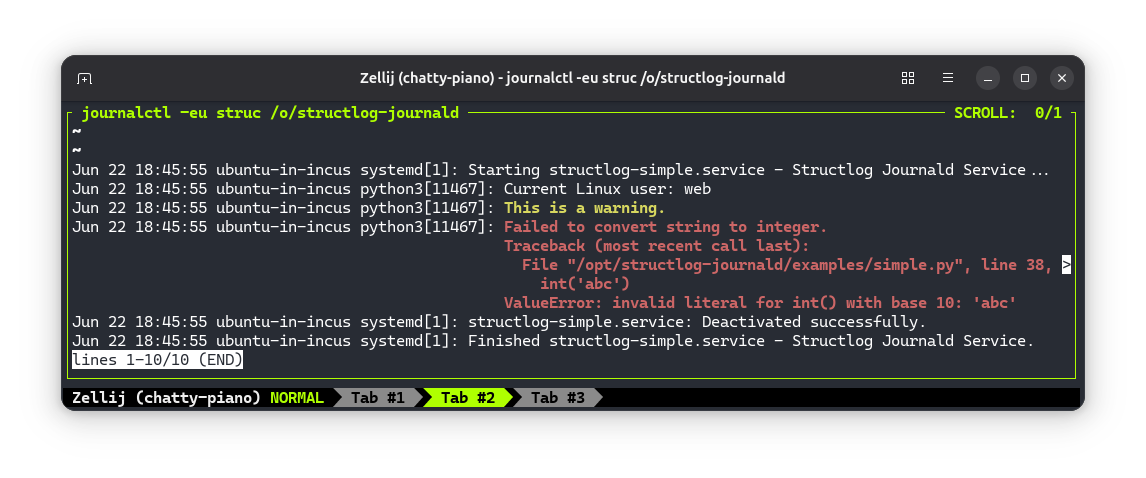
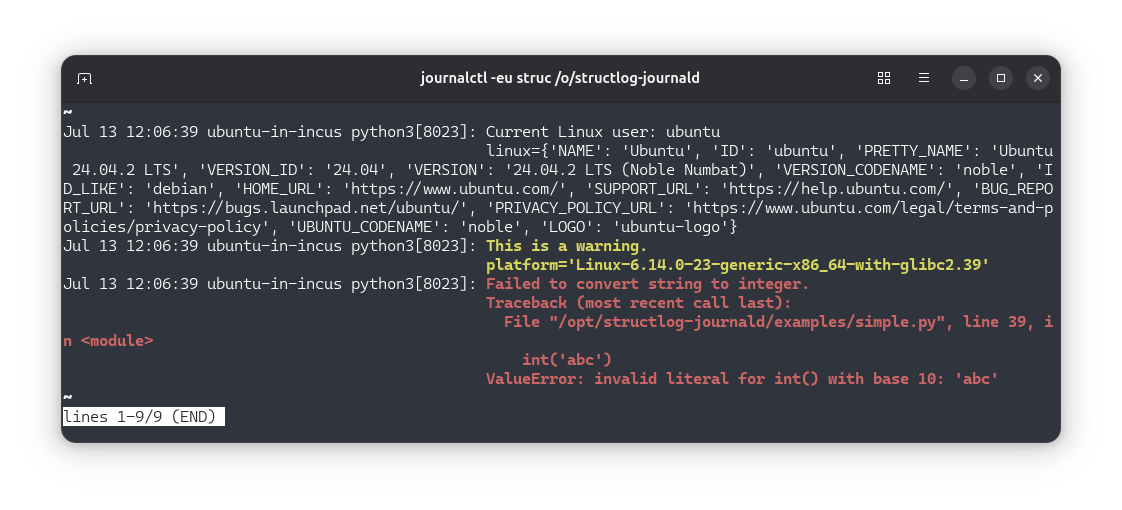
Render extra items in event_dict

diff --git a/src/structlog_journald/processors.py b/src/structlog_journald/processors.py
@@ -1,4 +1,4 @@
-from typing import Any
+from typing import Any, TypedDict
 
 from structlog import DropEvent
 from structlog.processors import CallsiteParameter
@@ -6,6 +6,17 @@ from structlog.typing import EventDict, WrappedLogger
 
 from .consts import CY, LEVEL_TO_PRIORITY
 from .detect import is_journald_connected
+
+
+# Items in EventDict, which are used by other processors
+# and should not be rendered by us.
+OTHER_PROCESSOR_KEYS = ('message', 'event', 'exec_info', 'exception', 'level', 'timestamp', 'stack', 'stack_info')
+
+
+class CallsiteInfo(TypedDict, total=False):
+    CODE_FUNC: str
+    CODE_FILE: str
+    CODE_LINE: int
 
 
 class JournaldProcessor:
@@ -45,6 +56,34 @@ class JournaldProcessor:
             return {}
         return {k.upper(): v for k, v in event_dict.items() if k.startswith(self.extra_field_prefix)}
 
+    def _extract_callsite_info(self, event_dict: EventDict) -> CallsiteInfo:
+        """
+        Retrieve callsite info which CallsiteParameterAdder has added
+        """
+        info: CallsiteInfo = {}
+        if func_name := event_dict.get(CallsiteParameter.FUNC_NAME.value):
+            info['CODE_FUNC'] = func_name
+        if code_file := event_dict.get(CallsiteParameter.PATHNAME.value):
+            info['CODE_FILE'] = code_file
+        if code_line := event_dict.get(CallsiteParameter.LINENO.value):
+            info['CODE_LINE'] = code_line
+        return info
+
+    def _format_extra_items(self, event_dict: EventDict) -> str:
+        """
+        Format extra items (other than the message) in event_dict as key=value.
+        """
+        ignored_keys: set[str] = {*OTHER_PROCESSOR_KEYS, *[p.value for p in CallsiteParameter]}
+        if self.extra_field_prefix:
+            ignored_keys.update(k for k in event_dict.keys() if k.startswith(self.extra_field_prefix))
+        pairs: list[str] = []
+        for k, v in event_dict.items():
+            # We also skip keys which start with '_'. They are for structlog internal use.
+            if k.startswith('_') or k in ignored_keys:
+                continue
+            pairs.append(f'{k}={v!r}')
+        return ' '.join(pairs)
+
     def __call__(self, logger: WrappedLogger, method_name: str, event_dict: EventDict) -> EventDict:
         if not is_journald_connected():
             return event_dict
@@ -58,14 +97,7 @@ class JournaldProcessor:
             return event_dict
         default_priority = LEVEL_TO_PRIORITY['info']
         priority = LEVEL_TO_PRIORITY.get(method_name, default_priority)
-        # Retrieve callsite info which CallsiteParameterAdder has added
-        callsite_info = {}
-        if func_name := event_dict.get(CallsiteParameter.FUNC_NAME.value):
-            callsite_info['CODE_FUNC'] = func_name
-        if code_file := event_dict.get(CallsiteParameter.PATHNAME.value):
-            callsite_info['CODE_FILE'] = code_file
-        if code_line := event_dict.get(CallsiteParameter.LINENO.value):
-            callsite_info['CODE_LINE'] = code_line
+        callsite_info = self._extract_callsite_info(event_dict)
         extra_fields = self._extract_extra_fields(event_dict)
         extra_fields.update(callsite_info)
         if self.syslog_identifier:
@@ -75,13 +107,16 @@ class JournaldProcessor:
         # and pass arbitrary data, so we will convert to string.
         message_str = message if isinstance(message, str) else str(message, errors='replace')
 
-        # When the logger was called with 'exception()' or 'aexception()' methods, we also send the exception information.
+        if key_value_extra := self._format_extra_items(event_dict):
+            message_str += '\n' + key_value_extra
+
+        # When the logger was called with `exception()` or `aexception()` methods, we also send the exception information.
         # Note: When testing, the method name then is still 'error'. I don't know how structlog defines the method name.
         if method_name in ('exception', 'aexception', 'error', 'aerror'):
-            # The event_dict may already be populated an "exception" item by 'format_exc_info' processor.
+            # The event_dict may already be populated an "exception" item by `format_exc_info` processor.
             if exc_str := event_dict.get('exception'):
                 message_str += f'\n{exc_str}'
-            # In case 'format_exc_info' was not in the chain, we just send "exc_info" to the `EXCEPTION_INFO` field like
+            # In case `format_exc_info` was not in the chain, we just send "exc_info" to the `EXCEPTION_INFO` field like
             # JournalHandler (from systemd-python) does.
             elif exc_info := event_dict.get('exc_info'):
                 message_str += f'\n{exc_info}'

diff --git a/examples/simple.py b/examples/simple.py
@@ -18,12 +18,14 @@ structlog.configure(
         structlog.processors.TimeStamper(fmt='%Y-%m-%d %H:%M:%S', utc=False),
         structlog.processors.EventRenamer('message'),
         JournaldProcessor(),
+        # This processor should be added for development environment only.
         structlog.dev.ConsoleRenderer(),
     ],
+    # In this example, we want to print log entries of all levels
     wrapper_class=structlog.make_filtering_bound_logger(logging.NOTSET),
     context_class=dict,
-    logger_factory=structlog.PrintLoggerFactory(),
-    cache_logger_on_first_use=False,
+    logger_factory=structlog.WriteLoggerFactory(),
+    cache_logger_on_first_use=True,
 )
 
 log = structlog.stdlib.get_logger()

diff --git a/docs/conf.py b/docs/conf.py
@@ -16,6 +16,7 @@ author = 'Nguyễn Hồng Quân <ng.hong.quan@gmail.com>'
 extensions = [
     'sphinx.ext.autodoc',
     'sphinx.ext.intersphinx',
+    'myst_parser',
 ]
 
 templates_path = ['_templates']

diff --git a/README.md b/README.md
@@ -5,7 +5,7 @@
 [![ReadTheDocs](https://readthedocs.org/projects/structlog-journald/badge/?version=latest)](https://structlog-journald.readthedocs.io?badge=latest)
 [![Common Changelog](https://common-changelog.org/badge.svg)](https://common-changelog.org)
 
-Structlog processor to send logs to journald.
+[Structlog] processor to send logs to [journald].
 
 Documentation: [https://structlog-journald.readthedocs.io](https://structlog-journald.readthedocs.io)
 
@@ -26,9 +26,11 @@ You also need to install one of the journald binding implementations:
 Usage
 -----
 
-Add the `structlog_journald.JournaldProcessor` to your list of structlog processors.
+Add the `structlog_journald.JournaldProcessor` to your list of `structlog` processors.
+It will do nothing if the journald socket is not available,
+in other words, the app was not started by systemd.
 
-To let the log has more useful information, you should also add these processors before `JournaldProcessor`:
+To let the log have more useful information, you should also add these processors before `JournaldProcessor`:
 
 - `CallsiteParameterAdder`
 - `format_exc_info`
@@ -36,9 +38,12 @@ To let the log has more useful information, you should also add these processors
 Example:
 
 ```py
+import getpass
 import logging
+import platform
 
 import structlog
+
 from structlog_journald import JournaldProcessor
 
 
@@ -47,23 +52,35 @@ structlog.configure(
         structlog.contextvars.merge_contextvars,
         structlog.processors.add_log_level,
         structlog.processors.CallsiteParameterAdder(),
-        structlog.processors.StackInfoRenderer(),
         structlog.processors.format_exc_info,
         structlog.dev.set_exc_info,
         structlog.processors.TimeStamper(fmt='%Y-%m-%d %H:%M:%S', utc=False),
         structlog.processors.EventRenamer('message'),
         JournaldProcessor(),
+        # This processor should be added for development environment only.
         structlog.dev.ConsoleRenderer(),
     ],
+    # In this example, we want to print log entries of all levels
     wrapper_class=structlog.make_filtering_bound_logger(logging.NOTSET),
     context_class=dict,
-    logger_factory=structlog.PrintLoggerFactory(),
-    cache_logger_on_first_use=False,
+    logger_factory=structlog.WriteLoggerFactory(),
+    cache_logger_on_first_use=True,
 )
 
 log = structlog.stdlib.get_logger()
 
-log.info('Hello, world!')
+user = getpass.getuser()
+
+
+log.info('Current Linux user: %s', user, linux=platform.freedesktop_os_release())
+log.warning('This is a warning.', platform=platform.platform())
+try:
+    int('abc')
+except ValueError:
+    log.exception('Failed to convert string to integer.')
 ```
 
 ![Journalctl](https://raw.githubusercontent.com/hongquan/structlog-journald/refs/heads/main/misc/screenshot.png)
+
+[structlog]: https://www.structlog.org
+[journald]: https://www.freedesktop.org/software/systemd/man/latest/journalctl.html

diff --git a/docs/index.rst b/docs/index.rst
@@ -1,7 +1,5 @@
-structlog-journald
-==================
-
-Processor for `structlog <https://www.structlog.org/>`_ to send logs to `journald <https://www.freedesktop.org/software/systemd/man/journalctl.html>`_.
+.. include:: ../README.md
+   :parser: myst_parser.sphinx_
 
 
 .. toctree::
